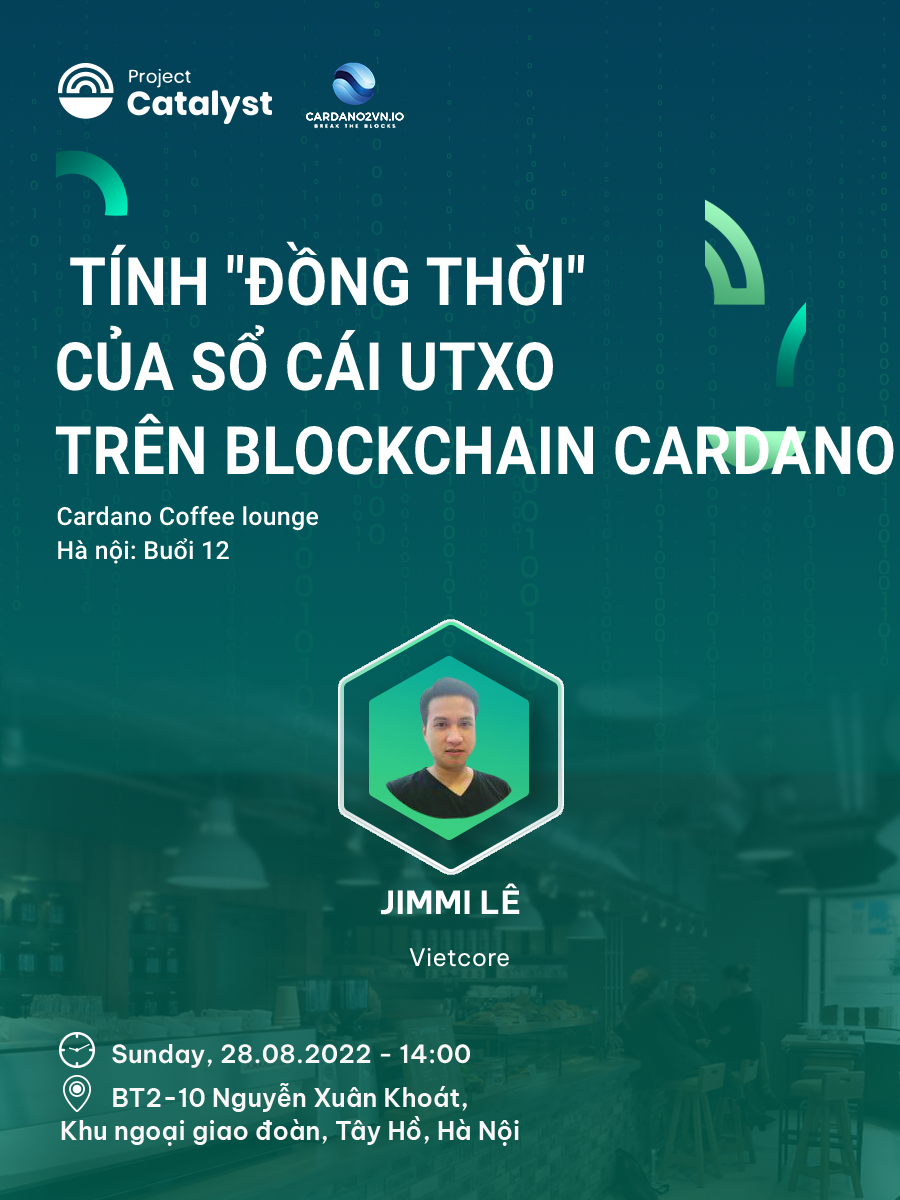
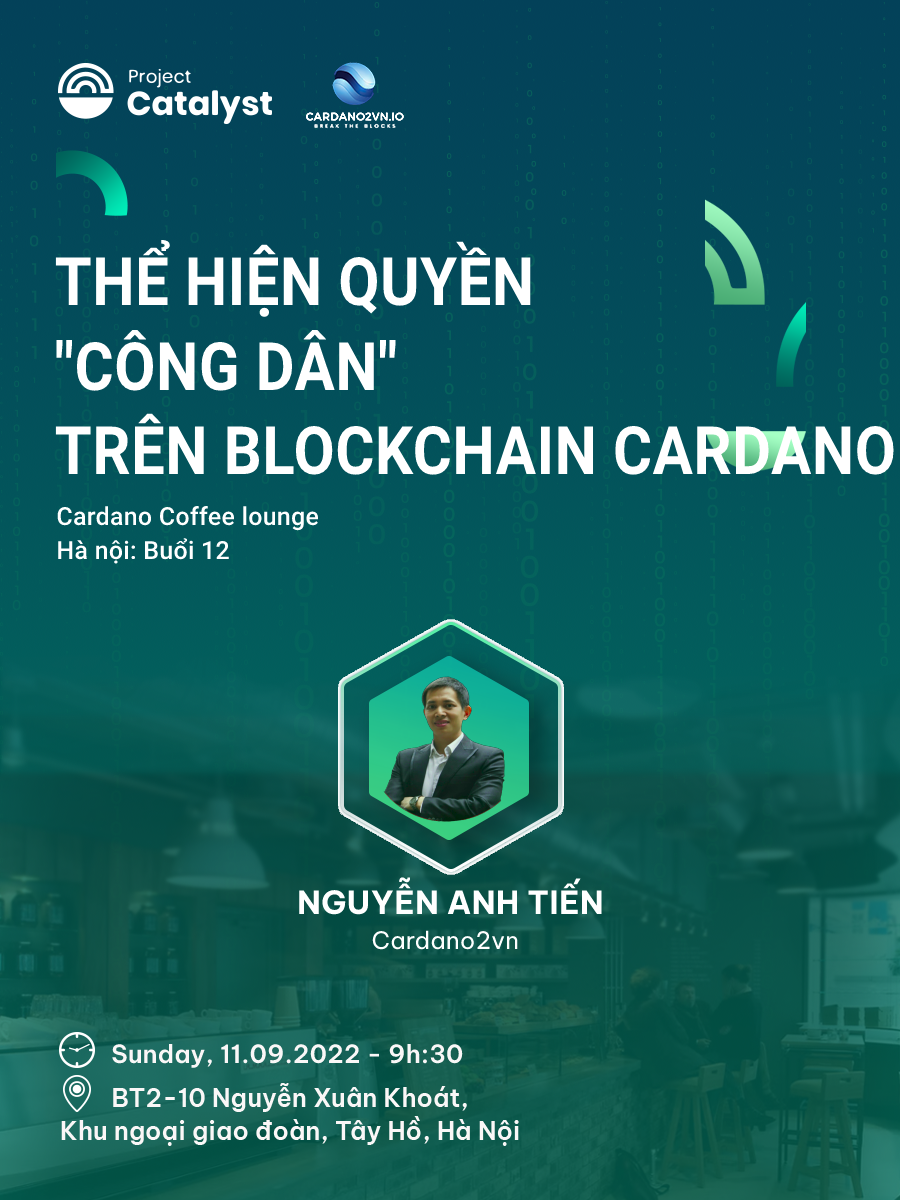
update blog

diff --git a/src/pages/catalyst-fund9.js b/src/pages/catalyst-fund9.js
@@ -73,8 +73,8 @@ function Feature({ imageUrl, title, description, targetUrl, name , score}) {
                   />
                 </div>
               )}
-              
-              
+ 
+                            
           </div>
 	 </div>
             <div className="card__body">

diff --git a/docs/events/even-HN.md b/docs/events/even-HN.md
@@ -1,19 +1,19 @@
-[Cardano Coffee Lounge - Hà Nội]-Buổi 12
+[Cardano Coffee Lounge - Hà Nội]-Buổi 12b
 =======================================
 
 **Cardano Coffee Lounge là một hoạt động họp mặt định kỳ hàng tuần do Catalyst tài trợ, mục đích là đưa những kiến thức về Blockchain và Cardano tới rộng rãi cộng đồng Việt Nam.**
 
 ![](img/B12-HN.png)
 
-📣Chủ đề thảo luận buổi 12 ở HN: “Tính "Đồng thời" của sổ cái Utxo”
+📣Chủ đề thảo luận buổi 12 ở HN: “Thể hiện quyền "Công dân" trên Blockchain Cardano!”
 
-📣Diễn giả: Jimme Lê, Vietccoreteam
+📣Diễn giả: Nguyễn Anh Tiến, Cardano2vn.io
 
-📣Thời gian: 14h, Chủ Nhật, 28/08/2022
+📣Thời gian: 9h30, Chủ Nhật, 11/09/2022
 
 📣 Địa điểm:  BT2-10 Nguyễn Xuân Khoát, Khu ngoại giao đoàn, Tây Hồ, Hà Nội [map tại đây](https://maps.app.goo.gl/6QRmmYxo4XzCQ3aZ7).
 
-📣Để phục vụ bạn được tốt nhất *(Miễn phí nước uống)*, vui lòng đăng ký 👉  [theo biểu mẫu sau đây](https://forms.gle/efnSWqbFaH6R7m7f6) trước 8:00 ngày 28/08/2022.
+📣Để phục vụ bạn được tốt nhất *(Miễn phí nước uống)*, vui lòng đăng ký 👉  [theo biểu mẫu sau đây](https://forms.gle/efnSWqbFaH6R7m7f6) trước 8:00 ngày 11/09/2022.
 
 📣Khi đến buổi họp mặt, vui lòng check in với BTC để order nước miễn phí.
 —-------------------

diff --git a/docs1/2022/01/2022-01-10-defi-demystified.md b/docs1/2022/01/2022-01-10-defi-demystified.md
@@ -112,5 +112,5 @@ Và trong khi chúng ta đang thảo luận về một số thuật ngữ 'kiế
 
 *Trong khi đây là những thời điểm thú vị, chúng tôi tiếp tục nhấn mạnh tầm quan trọng của [việc nghiên cứu của riêng bạn](https://iohk.io/en/blog/posts/2021/12/09/when-it-comes-to-defi-do-your-own-research/) và tiếp cận các sản phẩm mới một cách thận trọng. Theo dõi blog và [Twitter](https://twitter.com/InputOutputHK/status/1475107377775099910?s=20) của chúng tôi để biết các thông báo mới không bỏ lỡ điều gì. Và trong suốt năm nay, chúng tôi sẽ có nhiều nội dung hơn theo cách của bạn để giúp bạn điều hướng hệ sinh thái đang phát triển này.
 
-Bài này được dịch bởi Quang Pham. Bài viết nguồn [tại đây](https://iohk.io/en/blog/posts/2022/01/10/defi-demystified/)
+Bài này được dịch bởi Quang Pham, Review và biên tập bởi Nguyễn Hiệu. Bài viết nguồn [tại đây](https://iohk.io/en/blog/posts/2022/01/10/defi-demystified/)
 *Dự án này được tài trợ bởi Catalyst*

diff --git a/docs1/2022/03/2022-03-02-project-catalyst-cardano-s-innovation-engine-launches-fund8.md b/docs1/2022/03/2022-03-02-project-catalyst-cardano-s-innovation-engine-launches-fund8.md
@@ -50,6 +50,6 @@ Có nhiều cách để tham gia Project Catalyst. Là một nhà đổi mới, 
 
 Để tìm hiểu thêm về [Project Catalyst](https://iohk.io/en/blog/posts/2021/02/12/our-million-dollar-baby-project-catalyst) hoặc tham gia và trả lời các thử thách do những người khác đăng thông qua Project Catalyst, vui lòng đăng ký vào [danh sách gửi thư Catalyst](https://bit.ly/3dSZJvx) và tham gia [cộng đồng Telegram](https://t.me/cardanocatalyst) của chúng tôi, nơi chúng tôi rất vui được chào đón bạn.
 
-Bài này được dịch bởi LinhPool [với bài gốc](https://iohk.io/en/blog/posts/2022/03/02/project-catalyst-cardano-s-innovation-engine-launches-fund8
+Bài này được dịch bởi LinhPool, Review bởi Quang Pham, biên tập bởi Nguyễn Hiệu. Bài viết nguồn [tại đây](https://iohk.io/en/blog/posts/2022/03/02/project-catalyst-cardano-s-innovation-engine-launches-fund8)
 
 *Dự án này được tài trợ bới Catalyst*

diff --git a/docs1/2022/03/2022-03-04-diving-deeper-into-the-marlowe-playground.md b/docs1/2022/03/2022-03-04-diving-deeper-into-the-marlowe-playground.md
@@ -126,6 +126,6 @@ Với mẫu mới và tiện ích mở rộng siêu dữ liệu cho Marlowe, cá
 
 *Để tìm hiểu thêm về các bản phát hành Marlowe sắp tới và các tính năng mới, hãy theo dõi các kênh truyền thông xã hội của chúng tôi hoặc kênh [Marlowe Discord mới](https://discord.com/channels/826816523368005654/936295815926927390/936316494042779698) để biết thêm thông tin. Ngoài ra, hãy theo dõi để biết thông tin chi tiết về chương trình Người tiên phong Marlowe đầu tiên của chúng tôi sẽ sớm ra mắt!*
 
-Bài này được dịch bởi LinhPool [với bài gốc](https://iohk.io/en/blog/posts/2022/03/04/diving-deeper-into-the-marlowe-playground/)
+Bài này được dịch bởi LinhPool, Review bởi Brit Nguyen, biên tập bởi Nguyễn Hiệu. Bài viết nguồn [tại đây](https://iohk.io/en/blog/posts/2022/03/04/diving-deeper-into-the-marlowe-playground/)
 
 *Dự án này được tài trợ bởi Catalyst*

diff --git a/docs1/2022/01/2022-01-13-a-new-internal-iog-developer-experience-department.md b/docs1/2022/01/2022-01-13-a-new-internal-iog-developer-experience-department.md
@@ -55,6 +55,6 @@ Khi Cardano tiếp tục phát triển như một mô hình cơ sở hạ tầng
 
 *Các đóng góp của DevX được bao gồm trên [nhiều kho dữ liệu của Input Output](https://github.com/input-output-hk) và bạn có thể xem tiến trình phát triển Haskell Nix trong [kho này](https://github.com/input-output-hk/haskell.nix) hoặc tìm hiểu thêm về quá trình phát triển của trình biên dịch Glasgow Haskell bằng cách truy cập [gitlab.haskell.org](https://gitlab.haskell.org/users/sign_in).
 
-Bài này được dịch bởi Lê Nguyên.Nguồn bài dịch t[ại đây](https://iohk.io/en/blog/posts/2022/01/13/a-new-internal-iog-developer-experience-department/)
+Bài này được dịch bởi Lê Nguyên, Review và biên tập bởi Nguyễn Hiệu. Bài viết Nguồn [tại đây](https://iohk.io/en/blog/posts/2022/01/13/a-new-internal-iog-developer-experience-department/)
 
 *Dự án này được tài trợ bởi Catalyst*

diff --git a/docs1/2022/03/2022-03-31-wave-financial-launches-ada-yield-fund-to-support-cardanos-defi-ecosystem-growth.md b/docs1/2022/03/2022-03-31-wave-financial-launches-ada-yield-fund-to-support-cardanos-defi-ecosystem-growth.md
@@ -42,6 +42,6 @@ Wave được đăng ký với Ủy ban chứng khoán và giao dịch Hoa Kỳ 
 
 ##### **Tổng quan hệ sinh thái có trong bài đăng này nhằm cung cấp hướng dẫn tổng quát; không có gì trong phân tích này nhằm mục đích tư vấn thuế, tư vấn đầu tư, khuyến nghị mua chứng khoán hoặc giới thiệu về việc tài trợ hoặc nguồn vốn cụ thể.
 
-Bài này được dịch bởi Lê Nguyên [với bài gốc](https://iohk.io/en/blog/posts/2022/03/31/wave-financial-launches-ada-yield-fund-to-support-cardanos-defi-ecosystem-growth)
+Bài này được dịch bởi Lê Nguyên, Review bởi Quang Pham, biên tập bởi Nguyễn Hiệu. Bài viết nguồn [tại đây](https://iohk.io/en/blog/posts/2022/03/31/wave-financial-launches-ada-yield-fund-to-support-cardanos-defi-ecosystem-growth)
 
 *Dự án này được tài trợ bới Catalyst*

diff --git a/docs1/2022/01/2022-01-21-plutus-fee-estimator-find-out-the-cost-of-transacting-on-cardano.md b/docs1/2022/01/2022-01-21-plutus-fee-estimator-find-out-the-cost-of-transacting-on-cardano.md
@@ -76,6 +76,6 @@ Tối ưu hóa mã/tập lệnh trong tương lai và cải tiến hiệu suất
 
 Hãy xem công cụ ước tính phí Plutus trên [testnets.cardano.org](https://testnets.cardano.org/en/testnets/cardano/tools/2021-09-06__12-00-00_plutus-fee-estimator.md/) và hãy chắc chắn rằng - bạn có thể dễ dàng ước tính phí xử lý mà không bị mất tiền trong trường hợp giao dịch thất bại.
 
-Bài này được dịch bởi Lê Nguyên [với bài gốc](https://iohk.io/en/blog/posts/2022/01/21/plutus-fee-estimator-find-out-the-cost-of-transacting-on-cardano/) 
+Bài này được dịch bởi Lê Nguyên, Review bởi Tienna, biên tập bởi Nguyễn Hiệu. Bài viết nguồn [tại đây](https://iohk.io/en/blog/posts/2022/01/21/plutus-fee-estimator-find-out-the-cost-of-transacting-on-cardano/) 
 
 *Dự án này được tài trợ bởi Catalyst*

diff --git a/docs1/2022/02/2022-02-03-implementing-hydra-heads-the-first-step-towards-the-full-hydra-vision.md b/docs1/2022/02/2022-02-03-implementing-hydra-heads-the-first-step-towards-the-full-hydra-vision.md
@@ -103,6 +103,6 @@ Chúng tôi sẽ nói chi tiết hơn về Hydra Heads trong bản cập nhật 
 
 Tôi muốn cảm ơn Sebastian Nagel, Olga Hryniuk, Mark Irwin và Tim Harrison vì những ý kiến đóng góp và hỗ trợ của họ trong việc chuẩn bị bài đăng trên blog này.
 
-Bài này được dịch bởi minh-hieu-102 [với bài gốc](https://iohk.io/en/blog/posts/2022/02/03/implementing-hydra-heads-the-first-step-towards-the-full-hydra-vision/)
+Bài này được dịch bởi minh-hieu-102, Review bởi Quang Pham, biên tập bởi Nguyễn Hiệu. Bài viết nguồn [tại đây](https://iohk.io/en/blog/posts/2022/02/03/implementing-hydra-heads-the-first-step-towards-the-full-hydra-vision/)
 
 *Dự án này được tài trợ bới Catalyst*

diff --git a/docs1/2022/02/2022-02-07-the-knowledge-base-for-cardano-is-growing-cardano-stack-exchange-graduates-from-beta-version.md b/docs1/2022/02/2022-02-07-the-knowledge-base-for-cardano-is-growing-cardano-stack-exchange-graduates-from-beta-version.md
@@ -78,6 +78,6 @@ Chuyển từ phiên bản beta không chỉ là một cột mốc quan trọng.
 *Tôi muốn cảm ơn Matthew Capps vì những ý kiến và đóng góp của anh ấy trong việc chuẩn bị bài blog này.*
 
 
-Bài này được dịch bởi Lê Nguyên [với bài gốc](https://iohk.io/en/blog/posts/2022/02/07/the-knowledge-base-for-cardano-is-growing-cardano-stack-exchange-graduates-from-beta-version)
+Bài này được dịch bởi Lê Nguyên, Review bởi Quang Pham, biên tập bởi Nguyễn Hiệu. Bài viết nguồn [tại đây](https://iohk.io/en/blog/posts/2022/02/07/the-knowledge-base-for-cardano-is-growing-cardano-stack-exchange-graduates-from-beta-version)
 
 *Dự án này được tài trợ bởi Catalyst*
